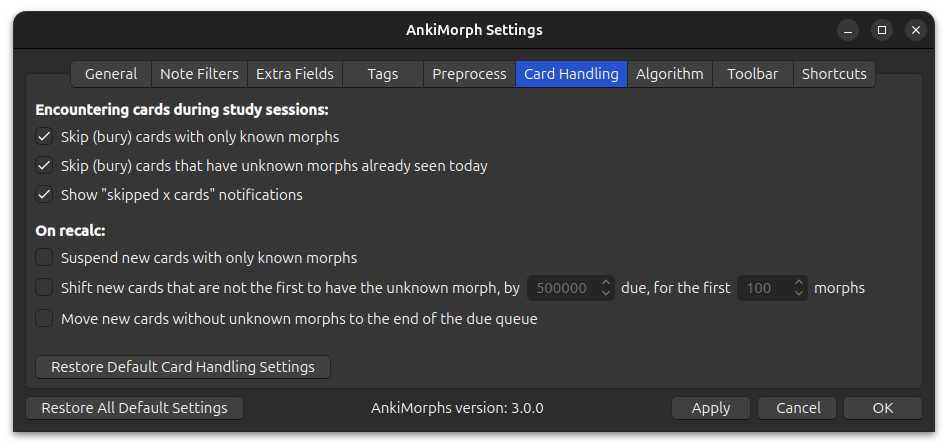
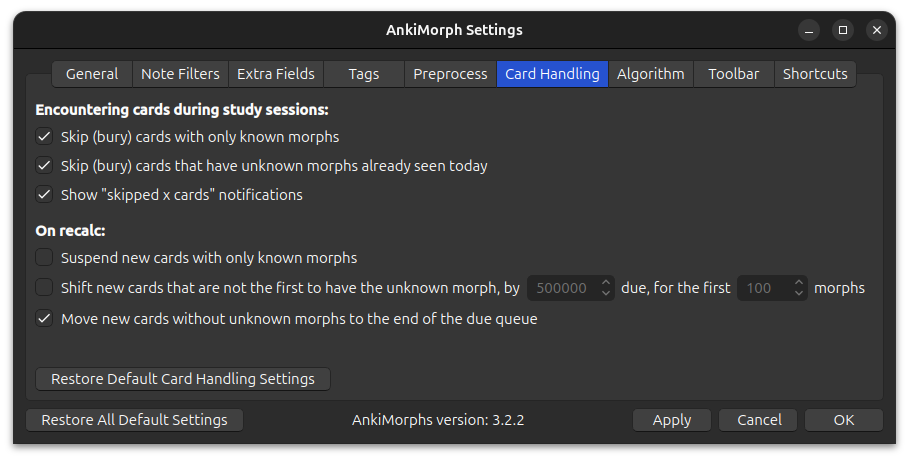
fixed 'undo' not working in non-english anki (#296)

diff --git a/ankimorphs/reviewing_utils.py b/ankimorphs/reviewing_utils.py
@@ -21,15 +21,26 @@ from .exceptions import CancelledOperationException, CardQueueEmptyException
 
 SET_KNOWN_AND_SKIP_UNDO = "Set known and skip"
 ANKIMORPHS_UNDO = "AnkiMorphs custom undo"
-VALID_UNDO_MERGE_TARGETS: set[str] = {  # a set has faster lookup than a list
-    "Answer Card",
-    "Bury",
-    "Suspend",
-    "Forget Card",
-    "Set Due Date",
-    "Delete Note",
-}
+valid_undo_merge_targets: set[str] = {""}
 set_known_and_skip_undo: UndoStatus | None = None
+
+
+def init_undo_targets() -> None:
+    """
+    The targets are just strings determined by the Anki interface language.
+    Translation functions are found in anki/_fluent.py
+    """
+    assert mw is not None
+    global valid_undo_merge_targets
+
+    valid_undo_merge_targets = {
+        mw.col.tr.actions_answer_card(),
+        mw.col.tr.actions_forget_card(),
+        mw.col.tr.actions_set_due_date(),
+        mw.col.tr.studying_bury(),
+        mw.col.tr.studying_suspend(),
+        mw.col.tr.studying_delete_note(),
+    }
 
 
 def am_next_card() -> None:
@@ -154,7 +165,7 @@ def _get_valid_undo_status() -> UndoStatus:
         # See comment in set_card_as_known_and_skip for more info
         assert set_known_and_skip_undo is not None
         undo_status = set_known_and_skip_undo
-    elif undo_status.undo not in VALID_UNDO_MERGE_TARGETS:
+    elif undo_status.undo not in valid_undo_merge_targets:
         # We have to create a custom undo_targets that can be merged into.
         mw.col.add_custom_undo_entry(ANKIMORPHS_UNDO)
         undo_status = mw.col.undo_status()

diff --git a/ankimorphs/__init__.py b/ankimorphs/__init__.py
@@ -81,7 +81,7 @@ def main() -> None:
     gui_hooks.profile_did_open.append(redraw_toolbar)
     gui_hooks.profile_did_open.append(init_tool_menu_and_actions)
     gui_hooks.profile_did_open.append(init_browser_menus_and_actions)
-    gui_hooks.profile_did_open.append(replace_reviewer_functions)
+    gui_hooks.profile_did_open.append(replace_card_reviewer)
     gui_hooks.profile_did_open.append(text_preprocessing.update_translation_table)
 
     gui_hooks.sync_will_start.append(recalc_on_sync)
@@ -313,11 +313,12 @@ def recalc_on_sync() -> None:
             recalc_main.recalc()
 
 
-def replace_reviewer_functions() -> None:
+def replace_card_reviewer() -> None:
     assert mw is not None
 
-    mw.reviewer.nextCard = reviewing_utils.am_next_card
+    reviewing_utils.init_undo_targets()
 
+    mw.reviewer.nextCard = reviewing_utils.am_next_card
     mw.reviewer._shortcutKeys = partial(
         reviewing_utils.am_reviewer_shortcut_keys,
         self=mw.reviewer,

diff --git a/ankimorphs/ankimorphs_db.py b/ankimorphs/ankimorphs_db.py
@@ -649,7 +649,7 @@ class AnkiMorphsDB:  # pylint:disable=too-many-public-methods
         # SearchNode handles escaping characters for us (e.g. 'am_known' -> 'am\_known')
         # it is also more robust to api changes than hardcoded strings.
         # An example of the resulting total_search_string is:
-        #   "(introduced:1 note:ankimorphs\_sub2srs OR introduced:1 note:Basic) OR is:buried tag:am-known"
+        #   "(introduced:1 note:ankimorphs\_sub2srs OR introduced:1 note:Basic) OR is:buried tag:am-known-manually"
         assert mw is not None
 
         am_config = AnkiMorphsConfig()

diff --git a/test/tests/review_test.py b/test/tests/review_test.py
@@ -64,6 +64,8 @@ def test_custom_review(
     am_config = AnkiMorphsConfig()
     skipped_cards = SkippedCards()
 
+    reviewing_utils.init_undo_targets()
+
     mock_mw.reviewer.nextCard = partial(
         reviewing_utils._get_next_card_background,
         am_config=am_config,

diff --git a/ankimorphs/ankimorphs_globals.py b/ankimorphs/ankimorphs_globals.py
@@ -5,7 +5,7 @@ that file and not here.
 """
 
 # Semantic Versioning https://semver.org/
-__version__ = "3.2.1"
+__version__ = "3.2.2"
 
 DEV_MODE: bool = False
 

diff --git a/docs/src/contributors.md b/docs/src/contributors.md
@@ -17,7 +17,7 @@ Matt Vs Japan, mortii, Vilhelm-Ian, cocowash, xuiqzy, xofm31, zeroeightysix, wol
 Vilhelm-Ian, CodeWithMa, ashprice, aleksejrs, HQYang1979, soliviantar, buster-blue, rymiel, BorisNA, wrinkledeth,
 cocowash, asayake-b5, quietmansoath, MichaelPetre, xofm31, knoebelja, xuiqzy, Jcuhfehl, fuquasteve, pallas42, syfgk,
 jahnke, jsteel44, iwouldrathernotusegithub, tanhoaian01, drkthomp, Kirchheim, zeroeightysix, Gardengul, wolearyc,
-Pedrubik2000, RyanMcEntire, BobvanSchendel, khanguyenwk, buqamura, Rct567, rwmpelstilzchen.
+Pedrubik2000, RyanMcEntire, BobvanSchendel, khanguyenwk, buqamura, Rct567, rwmpelstilzchen, bie-zheng.
 
 ### MorphMan (v5.0-qt6-alpha.1)
 
